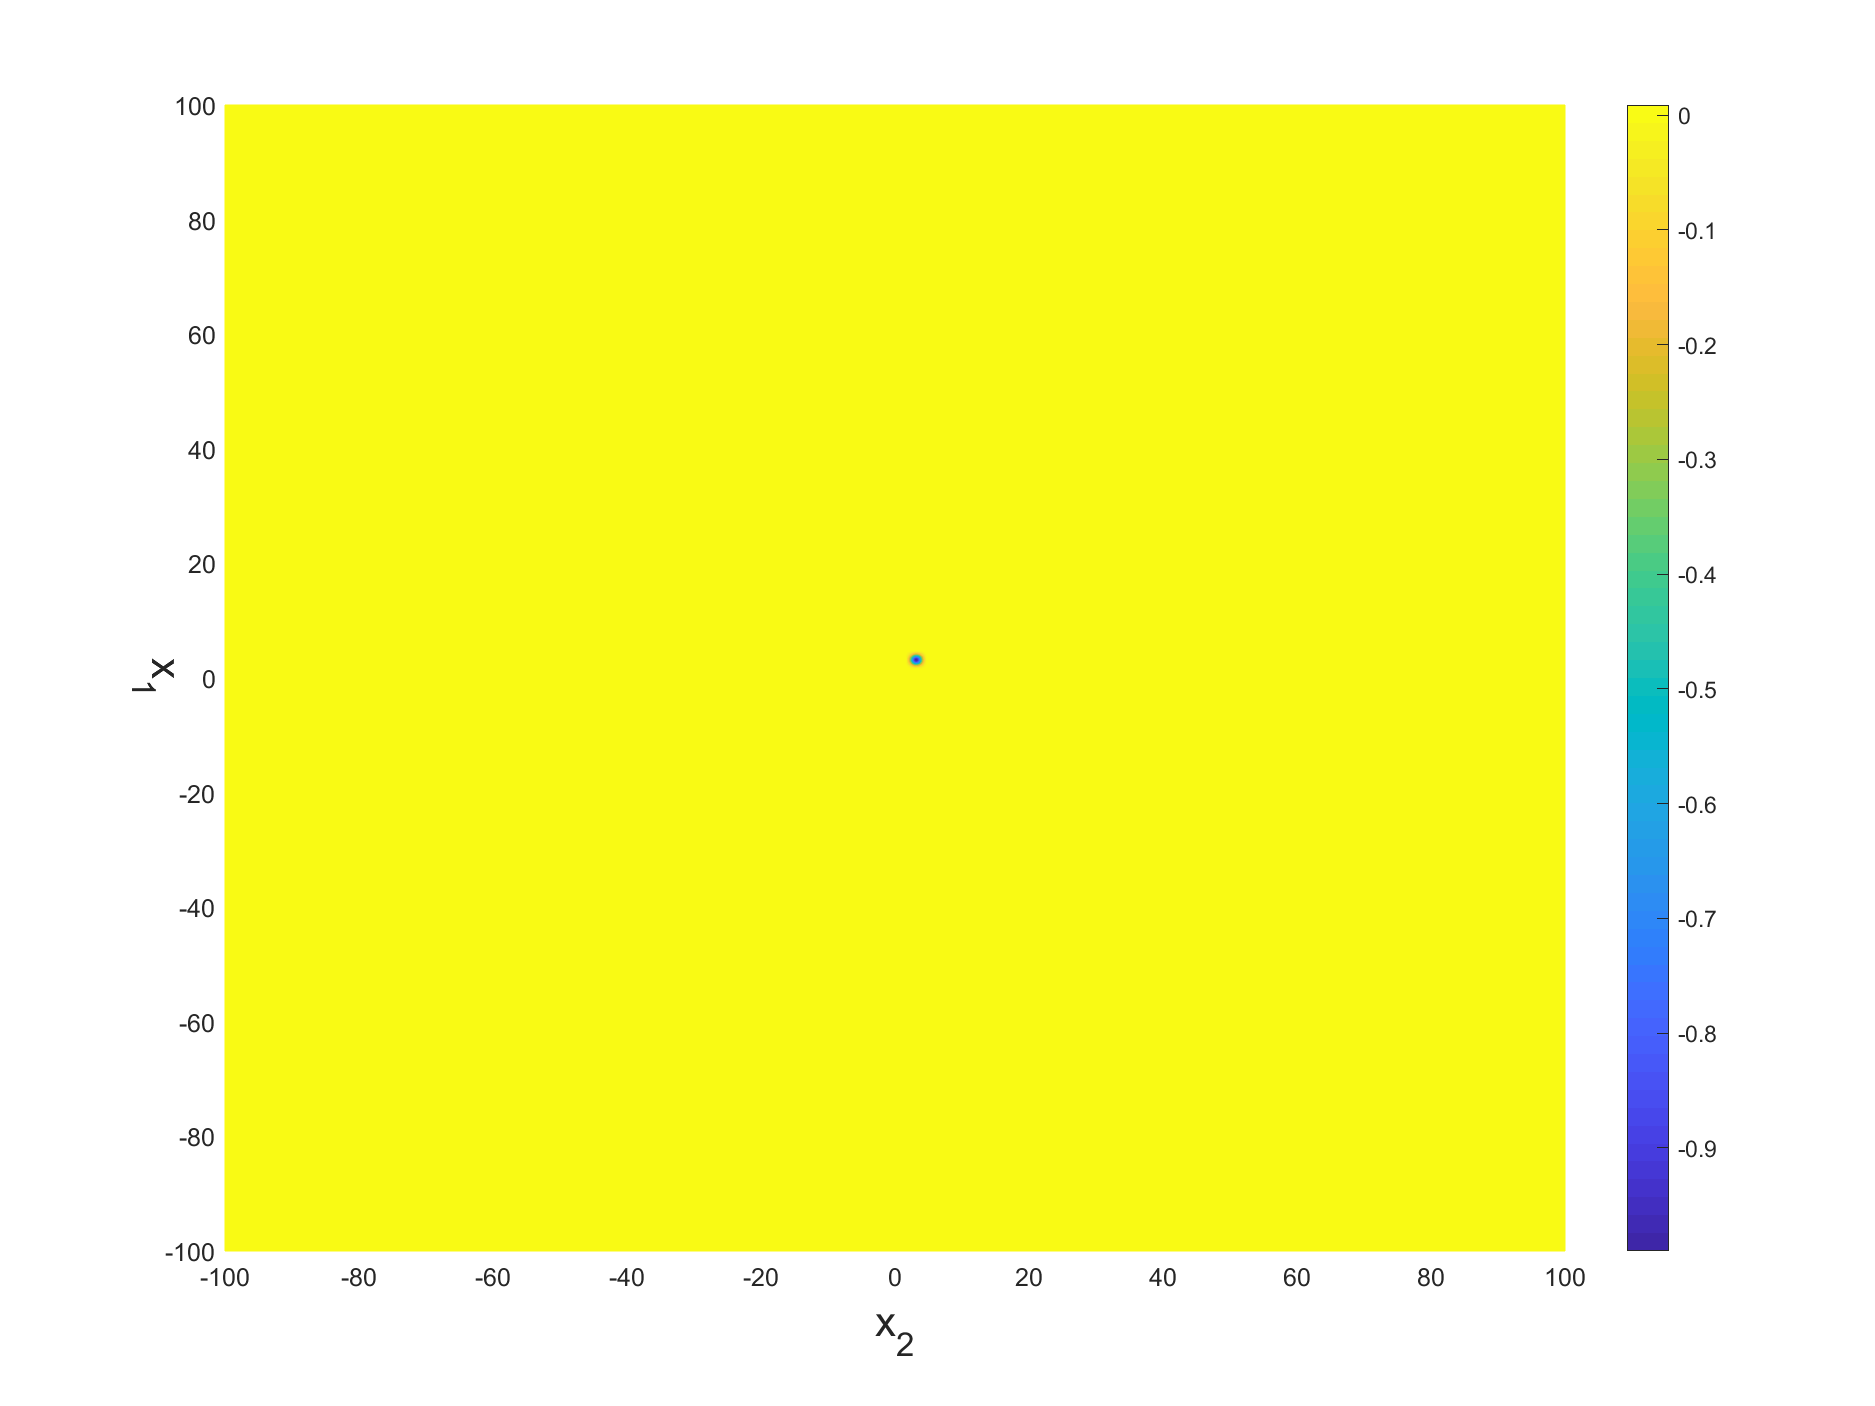
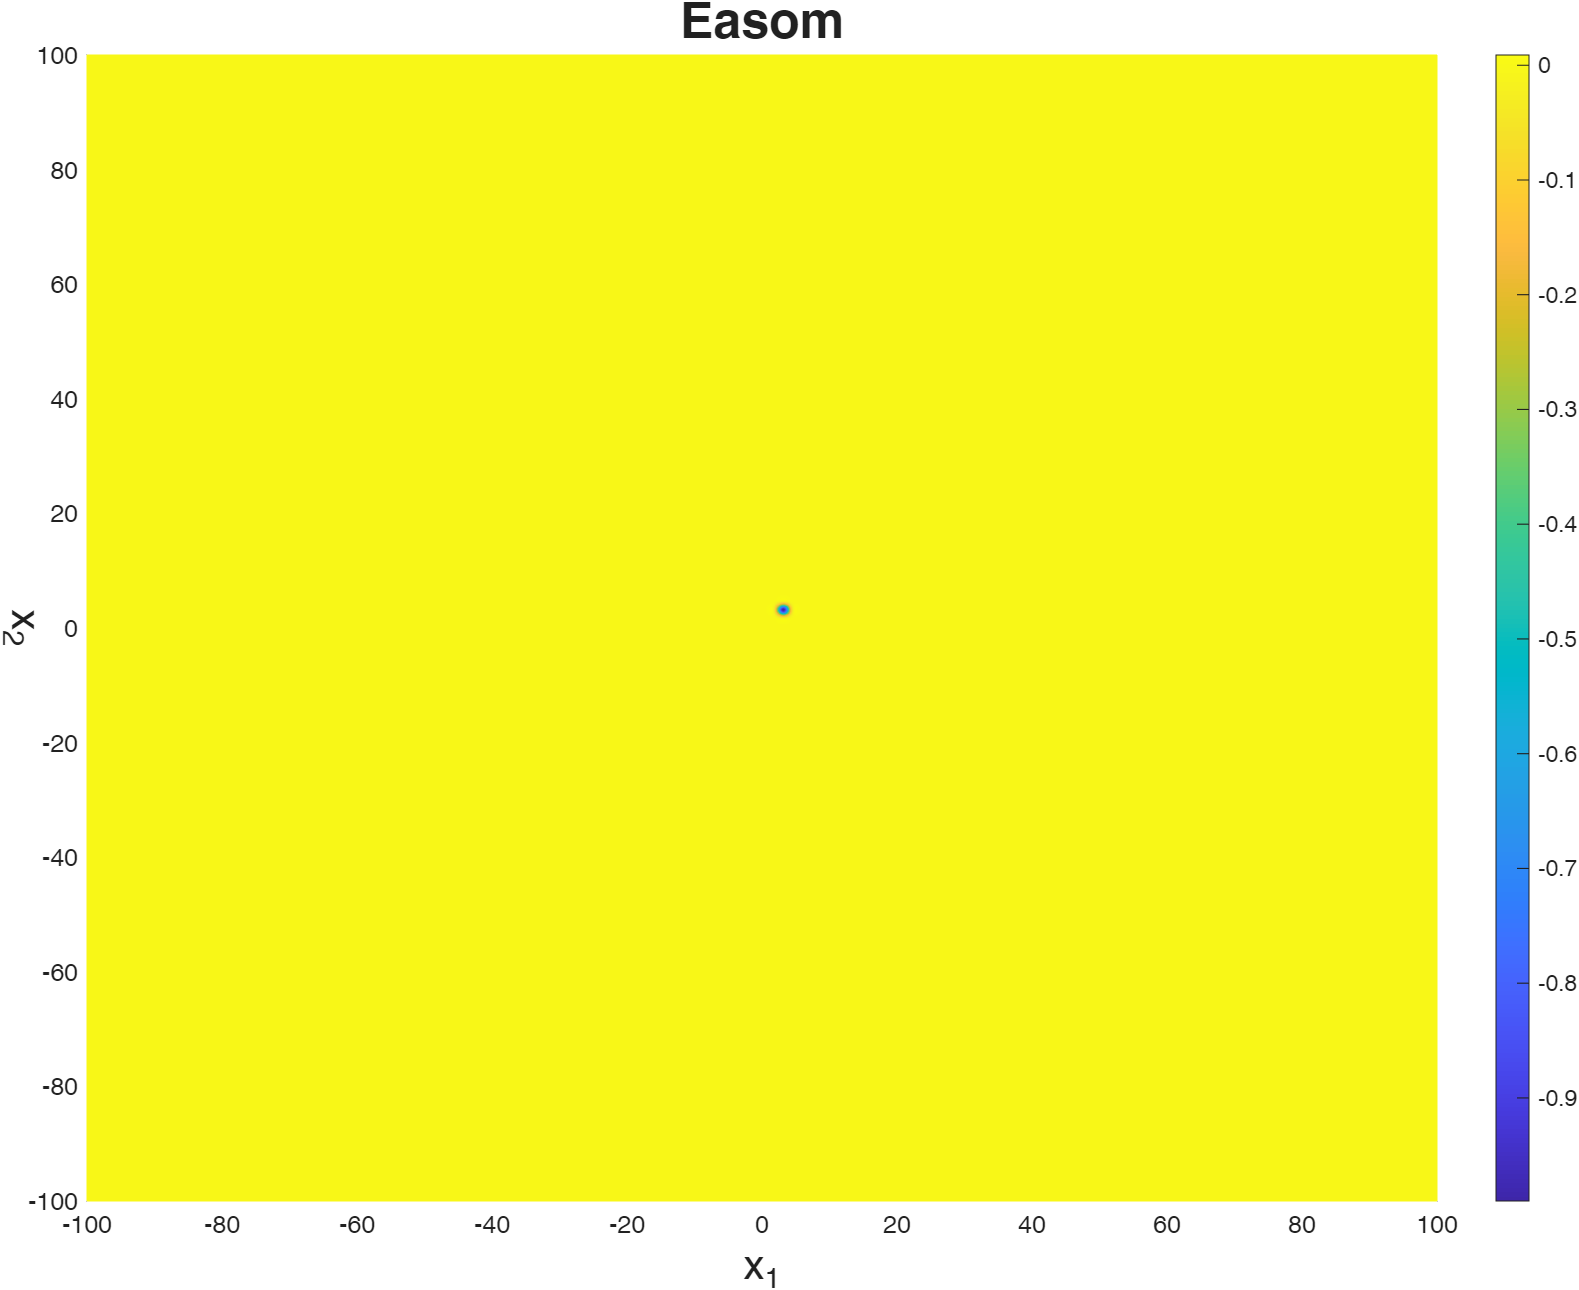
Added Rosenbrock and Schaffer. Renamed lowercase problems. Improved saved image plot size

Changed region(s): [[0.0, 0.0, 1.0, 0.9922], [0.4655, 0.4651, 0.4965, 0.4961]]

diff --git a/plot_problem.m b/plot_problem.m
@@ -21,7 +21,41 @@ else
     set(problem3Dfig, 'Visible', 'off');
 end
 
-meshc(X1, X2, F);colorbar;
+% Define Viridis colormap
+viridis = [
+    0.267004, 0.004874, 0.329415;
+    0.282656, 0.099695, 0.422173;
+    0.296143, 0.184948, 0.512066;
+    0.308428, 0.265254, 0.596338;
+    0.319164, 0.341404, 0.674157;
+    0.328547, 0.413873, 0.745587;
+    0.336496, 0.483614, 0.809956;
+    0.343121, 0.550985, 0.865707;
+    0.348458, 0.616354, 0.911231;
+    0.352538, 0.680057, 0.944781;
+    0.355395, 0.742433, 0.964028;
+    0.357068, 0.803804, 0.966707;
+    0.357588, 0.864492, 0.950075;
+    0.356995, 0.924806, 0.911536;
+    0.355325, 0.985053, 0.849073;
+    0.352615, 1.000000, 0.761464;
+    0.348898, 1.000000, 0.647987;
+    0.344213, 1.000000, 0.509994;
+    0.338594, 1.000000, 0.351695;
+    0.332071, 1.000000, 0.179993
+];
+
+% Assuming X1, X2, and F are defined properly
+% Calculate the size of F
+[m, n] = size(F);
+
+% Generate C to match the size of F
+C = repmat(viridis, m, n);
+
+meshc(X1, X2, F);
+%colormap(viridis); % Set colormap to Viridis
+colorbar;
+
 view(-135, 30);
 set(gca,'FontSize',12);
 set(gcf, 'Position',  [300, 50, 1200, 900])
@@ -31,9 +65,9 @@ ylabel('x_2','FontName','Helvetica','FontSize',20);
 set(get(gca,'ylabel'),'rotation',20,'VerticalAlignment','middle');
 set(gca, 'YDir','reverse')
 zlabel('f(X)','FontName','Helvetica','FontSize',20);
-%title(problem.problem_name,'FontName','Helvetica','FontSize',24,'FontWeight','bold');
+title(problem.problem_name,'FontName','Helvetica','FontSize',24,'FontWeight','bold');
 if(save)
-    saveas(problem3Dfig, 'images\'+problem.problem_name+'3D.png','png');
+    exportgraphics(problem3Dfig, 'images\'+problem.problem_name+'3D.png', 'ContentType', 'image', 'BackgroundColor', 'white');
 end
 
 problemHeatmapFig = figure(2);
@@ -49,7 +83,7 @@ set(get(gca,'xlabel'),'rotation',-90,'VerticalAlignment','middle');
 ylabel('x_1','FontName','Helvetica','FontSize',20);
 set(get(gca,'ylabel'),'VerticalAlignment','top');
 zlabel('f(X)','FontName','Helvetica','FontSize',20);
-%title(problem.problem_name,'FontName','Helvetica','FontSize',24,'FontWeight','bold');
+title(problem.problem_name,'FontName','Helvetica','FontSize',24,'FontWeight','bold');
 if(save)
-    saveas(problemHeatmapFig, 'images\'+problem.problem_name+'heatmap.png','png');
+    exportgraphics(problemHeatmapFig, 'images\'+problem.problem_name+'heatmap.png', 'ContentType', 'image', 'BackgroundColor', 'white');
 end

diff --git a/main.m b/main.m
@@ -5,10 +5,11 @@ resolution = 1500;
 plot = true;
 save = true;
 
-%problems = {Simple2d(), HolderTable(), Griewank(), Rastrigin(), Schwefel(), Easom(), Sphere(), Ackley(), Shubert(), Langermann(), ModifiedLangermann()};
+%problems = {Simple2d(), HolderTable(), Griewank(), Rastrigin(), Schwefel(), Easom(), Sphere(), Ackley(), Shubert(), Langermann(), ModifiedLangermann(), Rosenbrock(),Schaffer()};
 %problems = {CEC2005(1),CEC2005(2),CEC2005(3),CEC2005(4),CEC2005(5),CEC2005(6),CEC2005(7),CEC2005(8),CEC2005(9),CEC2005(10),CEC2005(11),CEC2005(12),CEC2005(13),CEC2005(14),CEC2005(15),CEC2005(16),CEC2005(17),CEC2005(18),CEC2005(19),CEC2005(20),CEC2005(21),CEC2005(22),CEC2005(23),CEC2005(24)};
-problems = {SplitDropWave1(),SplitDropWave2()};
+%problems = {SplitDropWave1(),SplitDropWave2()};
 for k=1:length(problems)
     problem=problems{k};
+    disp(problem.problem_name);
     plot_problem(problem, resolution, plot, save);
 end

diff --git a/Schaffer.m b/Schaffer.m
@@ -1,0 +1,23 @@
+classdef Schaffer < Problem
+    properties(Constant)
+        LB = [-100 -100];
+        UB = [100 100];
+    end
+    methods
+        function obj = Schaffer()
+            obj = obj@Problem("Schaffer");
+        end
+        function out = evaluate(obj, x)
+            if length(x) ~= 2
+                error('Schaffer function is defined for two variables (x, y).');
+            end
+            x1 = x(1);
+            x2 = x(2);
+            numerator = sin(x1^2 - x2^2)^2 - 0.5;
+            denominator = (1 + 0.001 * (x1^2 + x2^2))^2;
+            out = 0.5 + numerator / denominator;
+        end
+    end
+end
+
+

diff --git a/Rosenbrock.m b/Rosenbrock.m
@@ -1,0 +1,21 @@
+classdef Rosenbrock < Problem
+    properties(Constant)
+        LB = [-5 -5];  % Common bounds for Rosenbrock
+        UB = [5 5];
+    end
+    methods
+        function obj = Rosenbrock()
+            obj = obj@Problem("Rosenbrock");
+        end
+        function out = evaluate(obj, x)
+            d = length(x);
+            sum = 0;
+            for i = 1:d-1
+                sum = sum + 100 * (x(i+1) - x(i)^2)^2 + (x(i) - 1)^2;
+            end
+            out = sum;
+        end
+    end
+end
+
+
